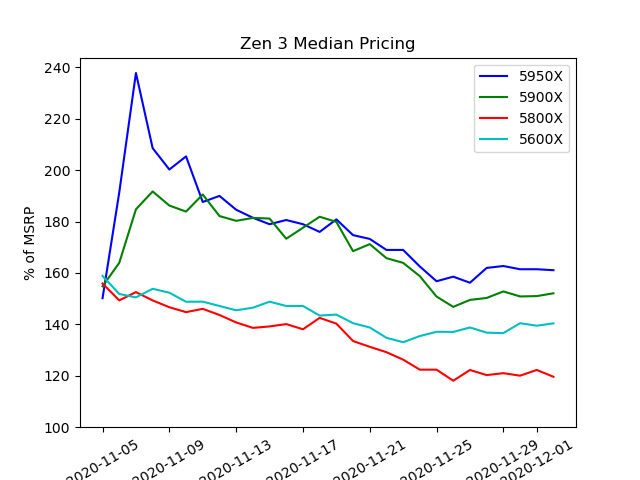
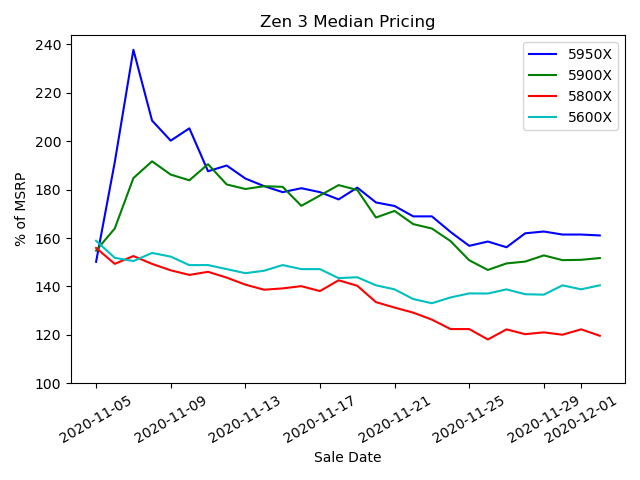
Fixed Pricing cutting off legend and extended sleep timer

diff --git a/main.py b/main.py
@@ -14,7 +14,7 @@ from scipy import stats
 
 def ebay_scrape(base_url, df, min_date='', verbose=False):
     for x in range(1, 5):
-        time.sleep(0.1)
+        time.sleep(0.2)  # eBays servers will kill your connection if you hit them too frequently
         url = base_url + str(x)
         source = requests.get(url).text
         soup = BeautifulSoup(source, 'lxml')
@@ -211,7 +211,7 @@ def ebay_search(query, msrp=0, min_price=0, max_price=10000, min_date=datetime.d
     # Determine price ranges to search with
     i = 0
     while i != len(price_ranges) - 1:
-        time.sleep(0.1)
+        time.sleep(0.2)  # eBays servers will kill your connection if you hit them too frequently
         url = 'https://www.ebay.com/sch/i.html?_from=R40&_nkw=' + str(
                 query.replace(" ", "+")) + '&_sacat=0&LH_PrefLoc=1&LH_Sold=1&LH_Complete=1&_udlo=' + str(
                 price_ranges[i]) + '&_udhi=' + str(
@@ -295,6 +295,7 @@ def median_plotting(dfs, names, title, msrps=[]):
         plt.plot(med_price, colors[ci], label=names[i])
     plt.ylim(bottom=min_msrp)
     plt.legend()
+    plt.tight_layout()
     plt.savefig("Images/" + title)
     plt.show()
 
